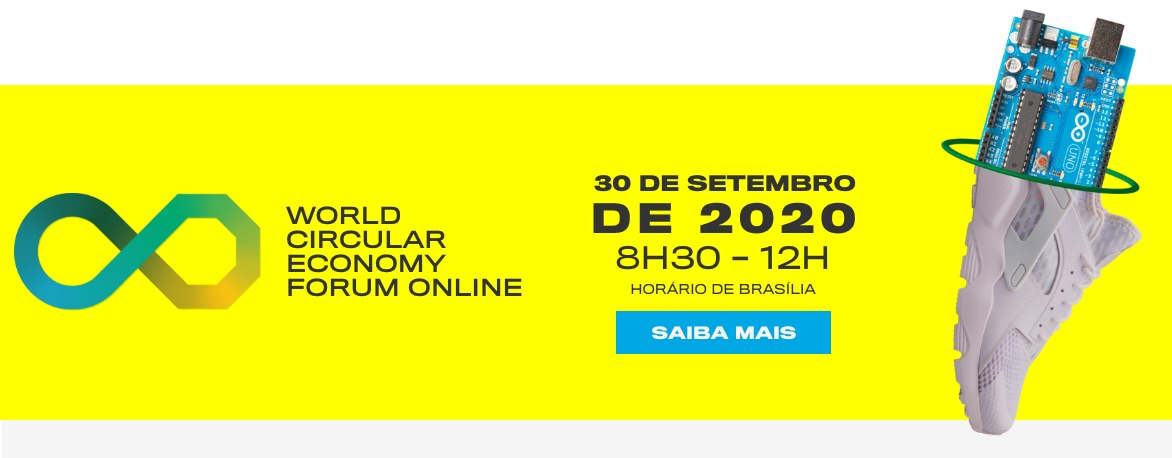
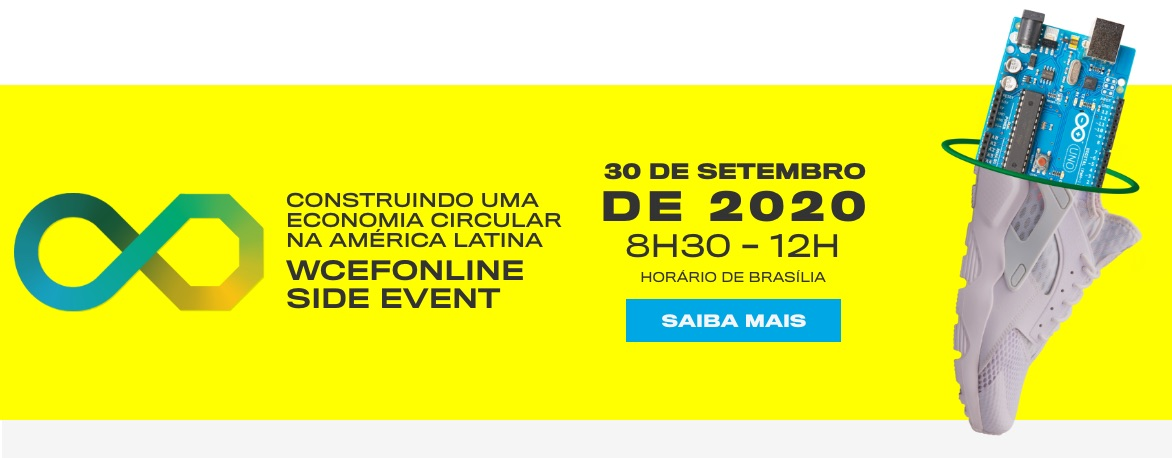
Add files via upload

diff --git a/pt/forum-sul-americano-2020.html b/pt/forum-sul-americano-2020.html
@@ -100,7 +100,7 @@
             <a class="nav-link js-scroll-trigger" href="index.html">PORTAL ECONOMIA CIRCULAR</a>
           </li>
           <li class="nav-item px-2">
-            <a class="nav-link js-scroll-trigger" href="#sobre-forum">SOBRE O WCEFOnline</a>
+            <a class="nav-link js-scroll-trigger" href="#sobre-forum">SOBRE</a>
           </li>
           <li class="nav-item px-2">
             <a class="nav-link js-scroll-trigger" href="#programacao">PROGRAMAÇÃO</a>
@@ -150,8 +150,8 @@
 
         <div class="col-sm-12 col-xl-10 offset-xl-1">
           <div class="section-header">
-            <h2>WCEFonline Side Event: Construindo uma  
-              <br><strong>Economia Circular na América Latina</strong>
+            <h2>CONSTRUINDO UMA ECONOMIA CIRCULAR<br>NA AMÉRICA LATINA  
+              <br><strong>WCEFONLINE SIDE EVENT</strong>
             </h2>
           </div>
           <div class="col-lg-10 offset-lg-1 d-none">
@@ -238,7 +238,7 @@
 
                 <ul>
                   <li><strong>Marcelo Marcos Morales </strong> - Secretário de Políticas para Formação de Ações Estratégicas do MCTI</li>
-                  <li><strong>Guilhermo Gonzalez</strong> - Ministério do Meio Ambiente do Chile</li>
+                  <li><strong>Luis Martinez Cerna</strong> - Universidad Central de Chile</li>
                   <li><strong>Alex Saer </strong> - Diretor de Desenvolvimento Sustentável do Ministério do Meio Ambiente da Colômbia</li>
                   <li><strong>Júlio Sosa</strong> - Coordenador Executivo da Câmara das Indústrias do Uruguai </li>
                   <li><strong>Elizabeth Peralta </strong> - Ex-Chefe do Departamento de Engenharia e Gestão Ambiental da Empresa Pública Municipal de serviços de água, esgoto e pluvial da cidade de Mar del Plata – Argentina</li>

diff --git a/pt/index.html b/pt/index.html
@@ -172,7 +172,7 @@
           </li>
           
           <li class="nav-item  px-2">
-            <a class="nav-link js-scroll-trigger" href="forum-sul-americano-2020.html">WCEFOnline</a>
+            <a class="nav-link js-scroll-trigger" href="forum-sul-americano-2020.html">EVENTOS</a>
           </li>
           <li class="nav-item dropdown ml-3">
             <a class="nav-link dropdown-toggle" href="#" id="navbarDropdown" role="button" data-toggle="dropdown" aria-haspopup="true" aria-expanded="false">
